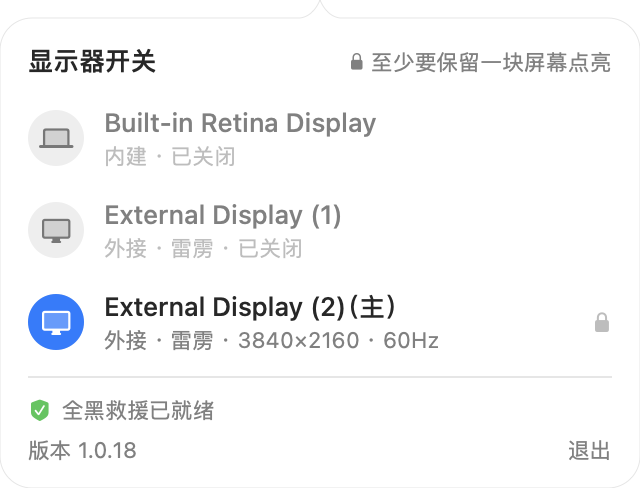
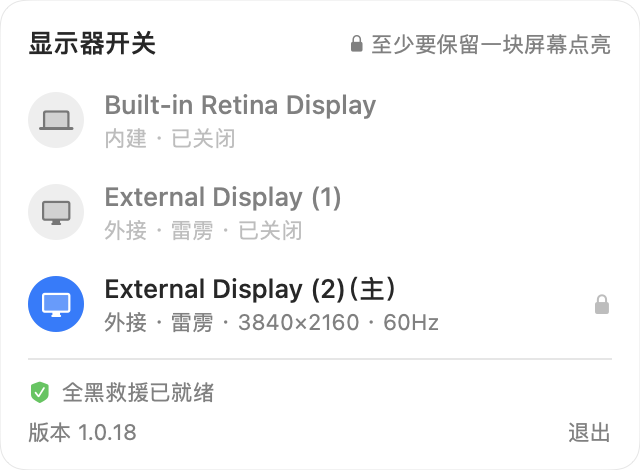
💄 候选版 1.0.18:面板改用系统材质组件,外形与位置照系统菜单,去掉没用的计数
- 面板底直接用系统的 NSGlassEffectView(更早系统用菜单材质),随系统玻璃 / 透明度设置同步变化
- 去掉指向图标的箭头:纯圆角矩形,圆角 13pt、左缘对齐图标、紧贴菜单栏下沿 2pt(实测系统菜单)
- 顶部去掉「3 块屏 · 2 块亮着」:每行图标已写明开没开;提示区平时空着,只在被锁住时写原因
- panelSummary 改名 panelHint(不再是摘要),单测随之合并

diff --git a/Sources/DisplaySwitchApp/StatusPanelController.swift b/Sources/DisplaySwitchApp/StatusPanelController.swift
@@ -14,8 +14,7 @@ final class StatusPanelController: NSObject {
     private let statusItem: NSStatusItem
     private let model: PanelModel
     private let panel: PanelWindow
-    private let hosting: NSHostingView<AnyView>
-    private let arrow: PanelArrow
+    private let hosting: NSHostingView<PanelView>
     private var observers: [NSObjectProtocol] = []
     private var eventMonitors: [Any] = []
     private var modelChange: AnyCancellable?
@@ -28,13 +27,9 @@ final class StatusPanelController: NSObject {
 
     init(controller: DisplayController) {
         let model = PanelModel(controller: controller)
-        let arrow = PanelArrow()
         self.model = model
-        self.arrow = arrow
         statusItem = NSStatusBar.system.statusItem(withLength: NSStatusItem.variableLength)
-        hosting = NSHostingView(rootView: AnyView(
-            PanelChrome(arrow: arrow) { PanelView(model: model) }
-        ))
+        hosting = NSHostingView(rootView: PanelView(model: model))
         // 不激活本 app 的面板:打开时不抢走当前 app 的焦点,面板照样能点、能收 Esc(菜单栏面板的通行做法)。
         panel = PanelWindow(contentRect: .zero, styleMask: [.borderless, .nonactivatingPanel], backing: .buffered, defer: true)
         super.init()
@@ -45,9 +40,9 @@ final class StatusPanelController: NSObject {
             button.action = #selector(togglePanel(_:))
         }
 
-        panel.contentView = hosting
+        panel.contentView = PanelBackground.wrapping(hosting)
         panel.isOpaque = false
-        panel.backgroundColor = .clear      // 圆角与箭头之外透明;面板的底由 PanelChrome 画(系统玻璃)
+        panel.backgroundColor = .clear      // 圆角之外透明;面板的底是系统材质(见 PanelBackground)
         panel.hasShadow = true
         panel.level = .popUpMenu
         panel.collectionBehavior = [.canJoinAllSpaces, .fullScreenAuxiliary, .transient]
@@ -171,6 +166,11 @@ final class StatusPanelController: NSObject {
         }
     }
 
+    /// 系统菜单栏菜单相对图标的几何,实测(macOS 27,2026-10-22:临时状态栏菜单弹出后读窗口位置):
+    /// 菜单左缘比图标窗口左缘偏左 5pt,上缘在图标(菜单栏)下沿以下 2pt。照抄,面板的位置就与系统菜单一致。
+    private static let menuInset: CGFloat = 5
+    private static let menuGap: CGFloat = 2
+
     /// 菜单栏图标所在窗口的位置;刚启动时尺寸还是 0(实测 40×0),返回 nil。
     private func iconFrame() -> NSRect? {
         guard let frame = statusItem.button?.window?.frame, frame.height > 0 else { return nil }
@@ -186,7 +186,7 @@ final class StatusPanelController: NSObject {
         }
     }
 
-    /// 把面板贴在图标正下方,水平居中对齐图标,超出屏幕边缘时往里收。
+    /// 把面板贴在图标下方,位置与系统菜单栏菜单相同:左缘对齐图标,紧贴菜单栏下沿;超出屏幕边缘时往里收。
     ///
     /// **面板只跟着真正落在菜单栏里的图标走,且直接就位、不做跟随动画**:图标在菜单栏里挪一次
     /// (菜单栏重排时会连挪几次,实测 1559→1376),面板同一时刻挪到同一处,看上去与图标是一体的。
@@ -207,11 +207,9 @@ final class StatusPanelController: NSObject {
             return
         }
         let size = hosting.fittingSize
-        var x = icon.midX - size.width / 2
+        var x = icon.minX - Self.menuInset
         x = min(max(x, screen.visibleFrame.minX + 8), screen.visibleFrame.maxX - size.width - 8)
-        // 箭尖贴近图标下沿;箭头对准图标中线(面板被屏幕边缘往里推时也一样)。
-        let frame = NSRect(x: x, y: icon.minY - size.height - 2, width: size.width, height: size.height)
-        arrow.x = icon.midX - x
+        let frame = NSRect(x: x, y: icon.minY - Self.menuGap - size.height, width: size.width, height: size.height)
         anchor = icon
         if frame != panel.frame { panel.setFrame(frame, display: true) }
         reveal()

diff --git a/Sources/DisplaySwitchUI/PanelView.swift b/Sources/DisplaySwitchUI/PanelView.swift
@@ -3,19 +3,17 @@ import DisplaySwitchCore
 
 /// 菜单栏弹出面板。
 ///
-/// 视觉取法 macOS 27 自己的菜单栏面板(控制中心):系统玻璃底、大圆角;行没有底色与描边,
+/// 视觉取法 macOS 27 自己的菜单栏面板(控制中心):底是系统材质(见 `PanelBackground`);行没有底色与描边,
 /// 开关状态由行首的圆形图标表达——开着是强调色实心圆、白色图形,关着是浅灰圆(同控制中心的
 /// Wi-Fi、蓝牙);鼠标经过时只出现一层很淡的圆角高亮,与系统菜单一致。
 /// 不用鼠标悬停提示(他认为低级):需要说明的话直接写在顶部的提示区。
 ///
-/// **布局在交互中保持不动**:每行高度固定;锁住原因写在顶部摘要的位置(他的设计),
+/// **布局在交互中保持不动**:每行高度固定;锁住原因写在顶部提示区(他的设计),
 /// 不在行里加字——曾因多出一行让面板长高、整体跳动,打乱他接下来要点的位置(2026-10-22)。
 public struct PanelView: View {
     @ObservedObject var model: PanelModel
 
     public init(model: PanelModel) { self.model = model }
-
-    private var hasLockedRow: Bool { model.items.contains { $0.lockReason != nil } }
 
     public var body: some View {
         VStack(alignment: .leading, spacing: 0) {
@@ -44,21 +42,19 @@ public struct PanelView: View {
             Text("显示器开关")
                 .font(.system(size: 13, weight: .semibold))
             Spacer(minLength: 8)
-            // 提示区:平时报数,有屏被锁住时写为什么不能关。旧的一句先淡出、新的再淡入,不挪动别的东西;
-            // 曾同时交叉淡化,长短不同的两句叠在一起,中途看是一团糊字(他的截图)。
+            // 提示区(他的设计):平时空着,只剩最后一块亮着被锁住时写原因,原地淡入淡出。
             // 锁形图标嵌在文字里、随文字排版:单独摆一个图标会把这一行撑高 1pt,面板跟着跳(截图实测)。
             ZStack(alignment: .trailing) {
-                Text(hasLockedRow ? "\(Image(systemName: "lock.fill")) \(model.summary)" : "\(model.summary)")
-                    .monospacedDigit()
-                    .imageScale(.small)
-                    .id(model.summary)
-                    .transition(.asymmetric(insertion: .opacity.animation(.easeOut(duration: 0.12).delay(0.08)),
-                                            removal: .opacity.animation(.easeIn(duration: 0.08))))
+                if let hint = model.hint {
+                    Text("\(Image(systemName: "lock.fill")) \(hint)")
+                        .imageScale(.small)
+                        .transition(.opacity)
+                }
             }
             .font(.system(size: 11))
             .foregroundStyle(.secondary)
             .lineLimit(1)
-            .animation(.easeInOut(duration: 0.2), value: model.summary)
+            .animation(.easeInOut(duration: 0.15), value: model.hint)
         }
         .padding(.horizontal, 14)
         .padding(.top, 13)

diff --git a/Sources/DisplaySwitchUI/PanelBackground.swift b/Sources/DisplaySwitchUI/PanelBackground.swift
@@ -1,0 +1,43 @@
+import AppKit
+
+/// 面板的底:直接用系统自己的材质组件,不自己画(他的要求:用 mac 官方组件,保持原生风格)。
+///
+/// macOS 26 起是 `NSGlassEffectView`——菜单栏菜单、控制中心同款的系统玻璃。系统「外观」里的玻璃样式、
+/// 「辅助功能 › 减少透明度」这类设置由系统直接作用在它上面,面板与系统同步变化,不用我们跟。
+/// 更早的系统用 `NSVisualEffectView` 的菜单材质(同样随系统设置变化)。
+///
+/// 曾自己画过一个带指向箭头的外框:他先是嫌面板离图标太远、建议加箭头,
+/// 看过之后改为要和 mac 一样的纯圆角矩形(2026-10-22)。
+public enum PanelBackground {
+    /// 圆角取系统菜单栏菜单的实测值:macOS 27 上弹出一个临时菜单截图,逐行量左上角边缘
+    /// 在约 26px(13pt)处收直(2026-10-22)。
+    public static let cornerRadius: CGFloat = 13
+
+    /// 把 `content` 放进系统材质里,返回给窗口当 `contentView`。
+    public static func wrapping(_ content: NSView) -> NSView {
+        if #available(macOS 26.0, *) {
+            let glass = NSGlassEffectView()
+            glass.cornerRadius = cornerRadius
+            glass.contentView = content
+            return glass
+        }
+        let effect = NSVisualEffectView()
+        effect.material = .menu
+        effect.blendingMode = .behindWindow
+        effect.state = .active
+        // 窗口背后的模糊要靠遮罩图才能裁成圆角;可拉伸的遮罩,四角保持圆角。
+        let r = cornerRadius
+        let mask = NSImage(size: NSSize(width: r * 2 + 1, height: r * 2 + 1), flipped: false) { rect in
+            NSColor.black.setFill()
+            NSBezierPath(roundedRect: rect, xRadius: r, yRadius: r).fill()
+            return true
+        }
+        mask.capInsets = NSEdgeInsets(top: r, left: r, bottom: r, right: r)
+        mask.resizingMode = .stretch
+        effect.maskImage = mask
+        content.frame = effect.bounds
+        content.autoresizingMask = [.width, .height]
+        effect.addSubview(content)
+        return effect
+    }
+}

diff --git a/Tests/DisplaySwitchCoreTests/DisplayControllerTests.swift b/Tests/DisplaySwitchCoreTests/DisplayControllerTests.swift
@@ -694,26 +694,19 @@ func lockReasons() {
     #expect(items[1]?.lockReason == nil)                              // 关着的屏随时能开
 }
 
-@Test("面板摘要:共几块、几块亮着")
-func panelSummaryLine() {
+@Test("顶部提示区:平时不写;只剩最后一块亮着、被锁住时写锁住原因")
+func panelHintOnlyWhenLocked() {
+    // 曾在这里报数(「3 块屏 · 2 块亮着」),他指出没用:每行行首的图标已经写明开没开(2026-10-22)。
     let svc = MockService(all: [makeInfo(id: 1, builtin: true, x: 0), makeInfo(id: 4, x: 1920), makeInfo(id: 5, x: 3840)])
     svc.hasBuiltIn = true
     let ctrl = DisplayController(service: svc)
-    _ = ctrl.toggle(id: 1)
-    #expect(panelSummary(ctrl.menuItems()) == "3 块屏 · 2 块亮着")
-    #expect(panelSummary([]) == "没有检测到显示器")
-}
-
-@Test("只剩最后一块亮着、被锁住时,顶部摘要就是提示区:改写锁住原因")
-func panelSummaryShowsLockHint() {
-    let svc = MockService(all: [makeInfo(id: 1, builtin: true, x: 0), makeInfo(id: 4, x: 1920), makeInfo(id: 5, x: 3840)])
-    svc.hasBuiltIn = true
-    let ctrl = DisplayController(service: svc)
+    #expect(panelHint(ctrl.menuItems()) == nil)
     _ = ctrl.toggle(id: 1)
     _ = ctrl.toggle(id: 4)
-    #expect(panelSummary(ctrl.menuItems()) == "至少要保留一块屏幕点亮")
-    _ = ctrl.toggle(id: 4)                                    // 再开回一块:不再锁住,摘要恢复计数
-    #expect(panelSummary(ctrl.menuItems()) == "3 块屏 · 2 块亮着")
+    #expect(panelHint(ctrl.menuItems()) == "至少要保留一块屏幕点亮")
+    _ = ctrl.toggle(id: 4)                                    // 再开回一块:不再锁住,提示消失
+    #expect(panelHint(ctrl.menuItems()) == nil)
+    #expect(panelHint([]) == nil)                             // 没有屏时列表里自己会写,顶部不重复
 }
 
 @Test("刚点亮的屏一时取不到名字:面板上的名字与顺序都不能变")

diff --git a/Sources/PanelSnapshots/main.swift b/Sources/PanelSnapshots/main.swift
@@ -58,8 +58,12 @@ final class KeyableWindow: NSWindow {
 
 /// 把视图放进离屏窗口,按实际排版尺寸渲染成 PNG(含系统原生开关控件)。
 func render(_ model: PanelModel, to url: URL) throws {
-    // 与 app 里一样套上外框(圆角 + 指向图标的箭头,截图里箭头居中)。离屏渲染取不到玻璃背后的内容,用实底。
-    let host = NSHostingView(rootView: PanelChrome(arrow: PanelArrow(), material: .solid) { PanelView(model: model) })
+    // app 里面板的底是系统玻璃(PanelBackground),离屏渲染取不到玻璃背后的内容,截图用同圆角的实底示意。
+    // 实底用系统的控件底色(浅色模式下是纯净的浅底):窗口底色偏灰,与强调色混出浑浊的灰紫(实测)。
+    let shape = RoundedRectangle(cornerRadius: PanelBackground.cornerRadius, style: .continuous)
+    let host = NSHostingView(rootView: PanelView(model: model)
+        .background(shape.fill(Color(nsColor: .controlBackgroundColor)))
+        .overlay(shape.stroke(Color(nsColor: .separatorColor), lineWidth: 0.5)))
     host.appearance = NSAppearance(named: .aqua)   // 截图固定浅色,与 README 预期一致
     host.layoutSubtreeIfNeeded()
     let size = host.fittingSize

diff --git a/Sources/DisplaySwitchCore/PanelText.swift b/Sources/DisplaySwitchCore/PanelText.swift
@@ -31,10 +31,10 @@ func modeText(_ mode: DisplayMode) -> String {
     return hz > 0 ? "\(size) · \(hz)Hz" : size
 }
 
-/// 面板顶部的一句话摘要,同时是提示区(他的设计):平时报数,有屏被锁住时就说为什么不能关。
-/// 提示放在这里而不是被锁住那一行里,行高就不会变,面板不会跳。
-public func panelSummary(_ items: [DisplayMenuItem]) -> String {
-    guard !items.isEmpty else { return "没有检测到显示器" }
-    if let reason = items.lazy.compactMap(\.lockReason).first { return reason }
-    return "\(items.count) 块屏 · \(items.filter(\.isOn).count) 块亮着"
+/// 面板顶部提示区要写的话;没什么要说的时候为 nil,提示区就空着。
+/// 目前只有一种情况要说:只剩最后一块亮着、被锁住,写清为什么不能关。
+/// 放在顶部而不是被锁住那一行里,行高就不会变,面板不会跳(他的设计)。
+/// 曾在平时报数「3 块屏 · 2 块亮着」,他指出没用:每行行首的图标已经写明开没开(2026-10-22)。
+public func panelHint(_ items: [DisplayMenuItem]) -> String? {
+    items.lazy.compactMap(\.lockReason).first
 }

diff --git a/Sources/DisplaySwitchUI/PanelModel.swift b/Sources/DisplaySwitchUI/PanelModel.swift
@@ -6,7 +6,8 @@ import DisplaySwitchCore
 /// 面板的数据源。所有文字都由 Core 算好(可单测),这里只负责「什么时候重新读一遍」和转发点击。
 public final class PanelModel: ObservableObject {
     @Published public private(set) var items: [DisplayMenuItem] = []
-    @Published public private(set) var summary = ""
+    /// 顶部提示区的话,见 `panelHint`。
+    @Published public private(set) var hint: String?
     @Published public private(set) var supported = true
     @Published public private(set) var lastRescue: Date?
 
@@ -35,7 +36,7 @@ public final class PanelModel: ObservableObject {
 
     public func reload() {
         items = controller.menuItems()
-        summary = panelSummary(items)
+        hint = panelHint(items)
         supported = controller.isSupported
         lastRescue = lastRescueProvider()
     }

diff --git a/README.md b/README.md
@@ -134,7 +134,7 @@ xattr -dr com.apple.quarantine /Applications/DisplaySwitch.app
 - 用到私有符号（经 `dlsym` 动态解析，无链接期硬依赖），因此**无法上架 App Store**，仅本地 / 自分发。
 - 不关 SIP、不需特殊 entitlement、不申请任何权限。
 - 设计细节与每条结论的实测记录见 [`docs/superpowers/specs/2026-06-18-display-switch-design.md`](docs/superpowers/specs/2026-06-18-display-switch-design.md)。
-- 面板版式参考了 [MonitorBar](https://github.com/Binaryify/MonitorBar)（头部摘要、每屏一张卡片、底部状态栏）。
+- 面板版式参考了 [MonitorBar](https://github.com/Binaryify/MonitorBar)（每屏一张卡片、底部状态栏）。
 
 ## English
 
